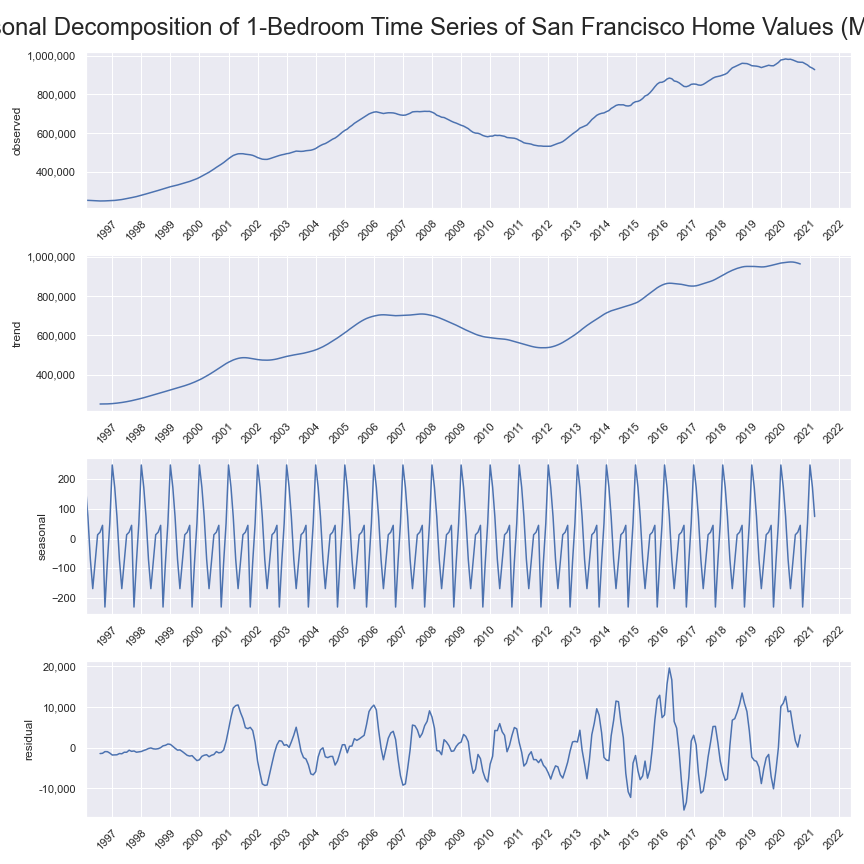
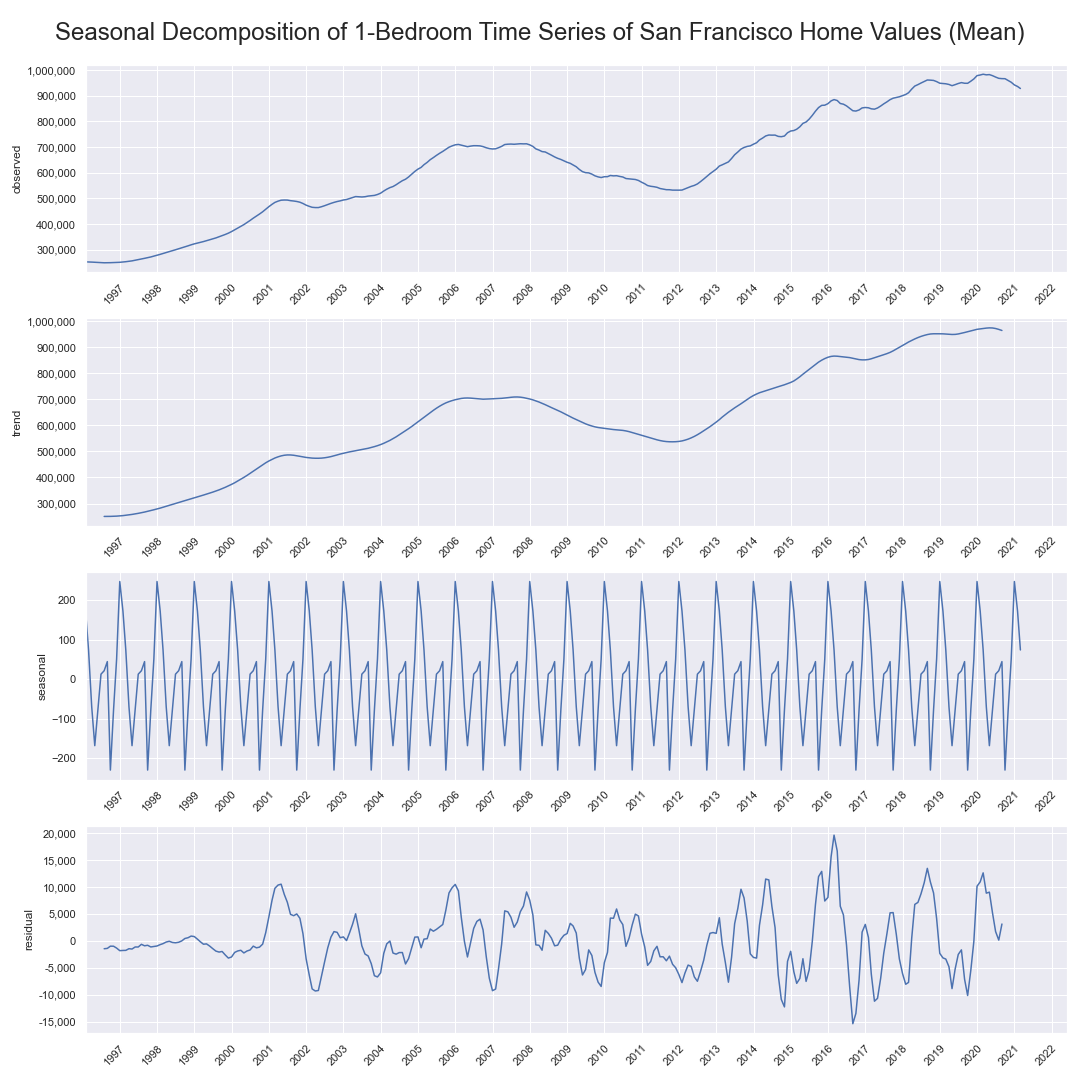
refresh images

diff --git a/code/functions.py b/code/functions.py
@@ -146,7 +146,7 @@ def plot_seasonal_decomposition(df_all, bedrooms):
     start = dc_df.iloc[:, 0].index[0]
     end = dc_df.iloc[:, 0].index[-1] + relativedelta(months=+15) + relativedelta(day=31)
 
-    decomp_fig, axes = plt.subplots(4, 1, figsize=(12, 12))
+    decomp_fig, axes = plt.subplots(4, 1, figsize=(15, 15))
     for i, ax in enumerate(axes):
         ax.plot(dc_df.iloc[:, i])
         ax.set_xlim(start, end)
